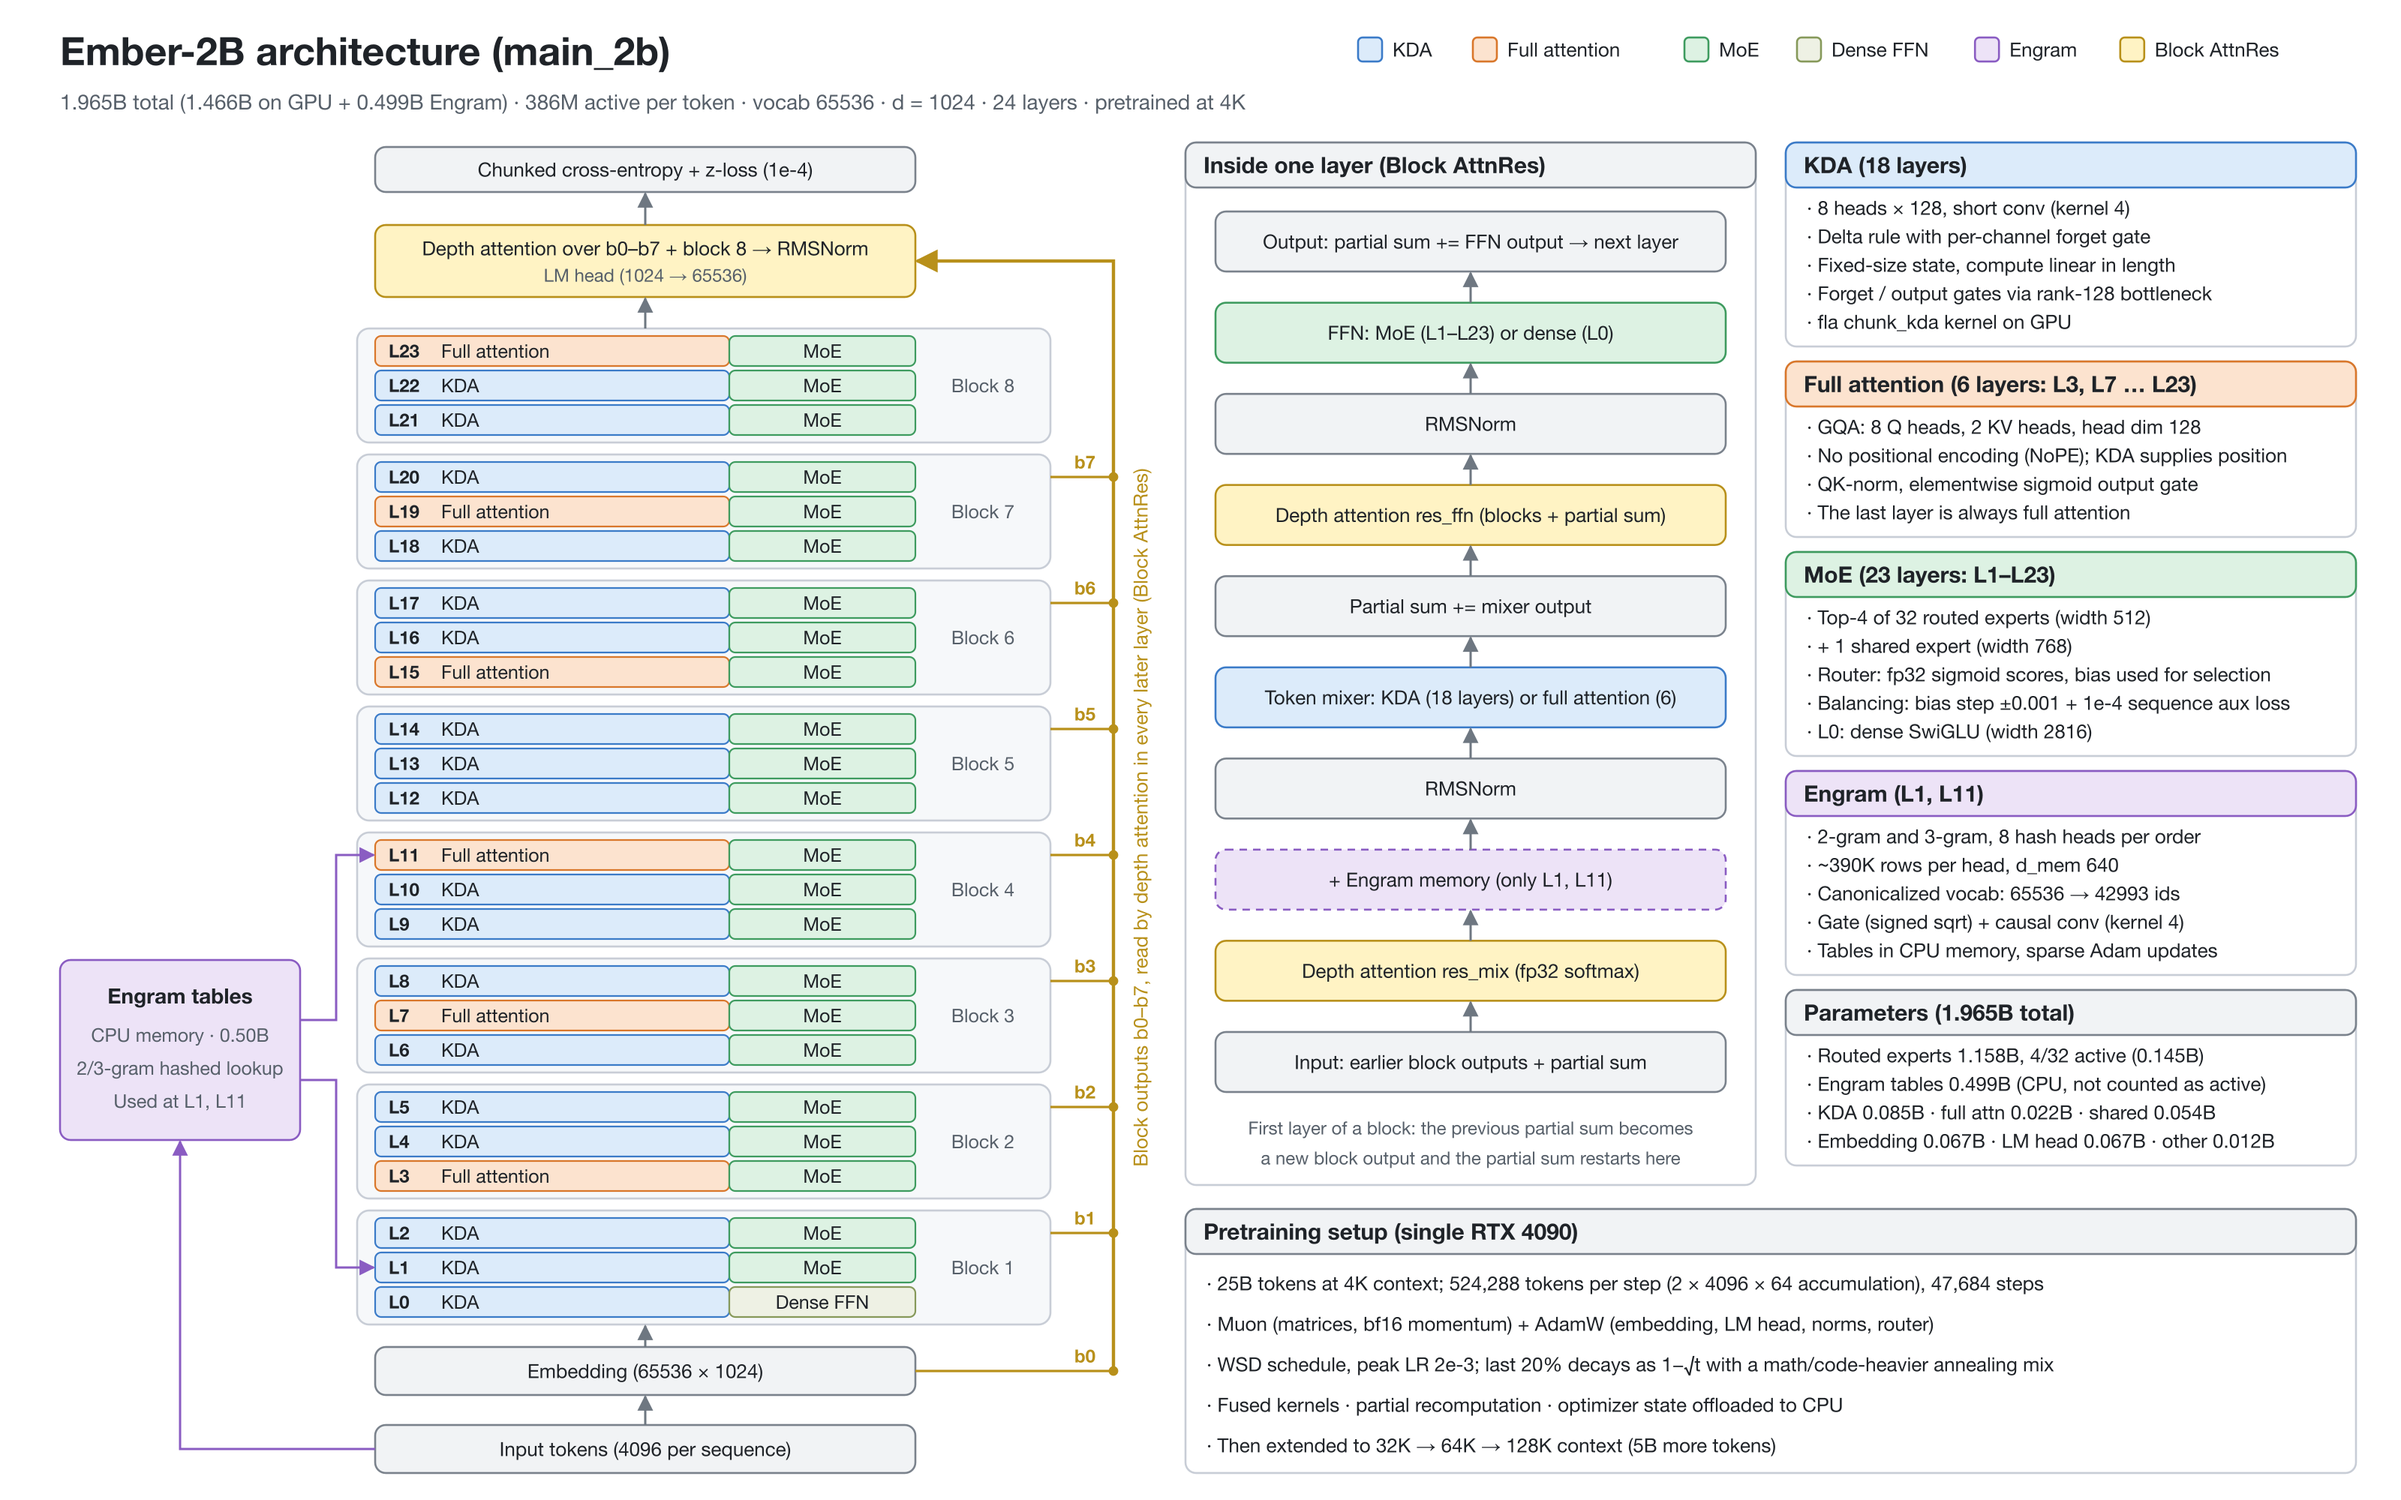
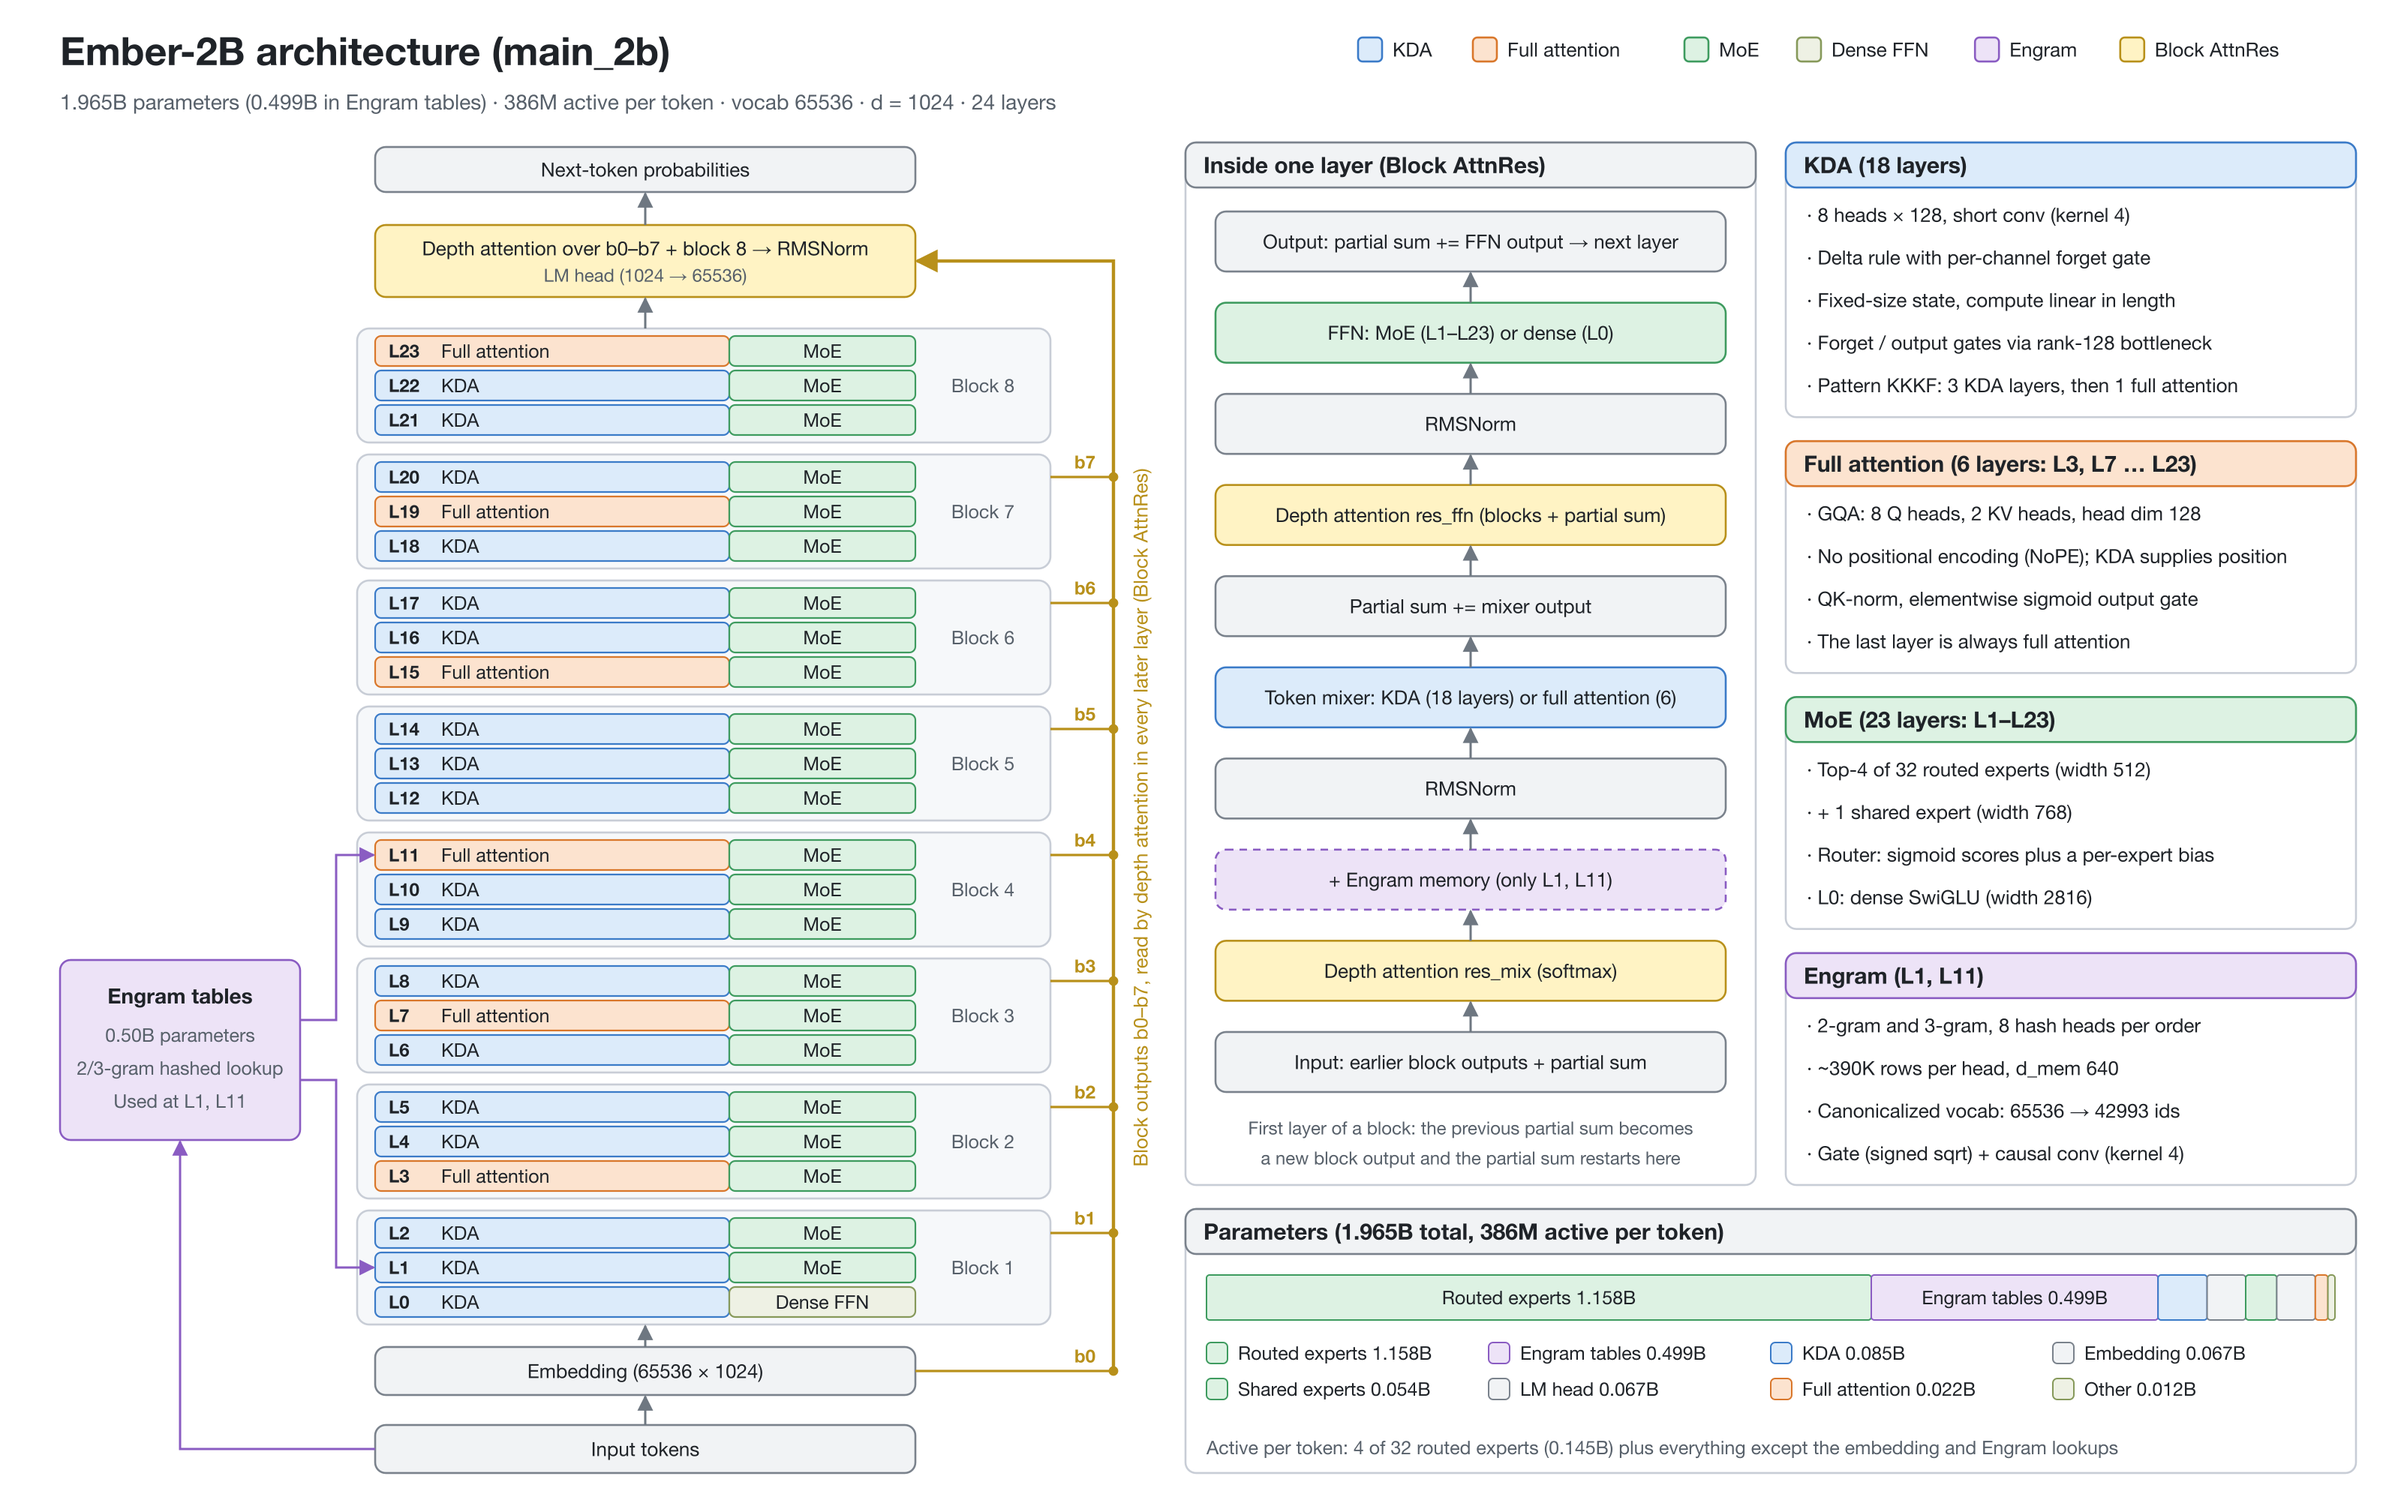
Architecture figure: the model only (no training setup, data or hardware)

diff --git a/scripts/plot_architecture.py b/scripts/plot_architecture.py
@@ -1,6 +1,9 @@
 #!/usr/bin/env python
 """Draw the main_2b architecture: docs/architecture.svg, plus docs/architecture.png via rsvg-convert.
 
+The figure shows the model only: the layer stack, what one layer does, the components and where the parameters
+are. Training settings, data and hardware are not part of it.
+
 Layer layout, widths and expert counts come from moe_llm/config.py (plain Python, no torch needed).
 Parameter counts come from moe_llm.budget.param_report when torch is installed, otherwise from the
 numbers it reported for main_2b on 2026-11-10 (FALLBACK_CATS).
@@ -45,12 +48,6 @@ def param_counts(cfg) -> dict:
         return dict(param_report(cfg)["cats"])
     except ImportError:
         return dict(FALLBACK_CATS)
-
-
-def sci(x: float) -> str:
-    """1e-4 instead of 0.0001."""
-    m, e = f"{x:.0e}".split("e")
-    return f"{m}e{int(e)}"
 
 
 def text_width(s: str, size: float) -> float:
@@ -139,8 +136,8 @@ def draw(cfg) -> Svg:
 
     # ---------------------------------------------------------------- title + legend
     s.text(40, 34, "Ember-2B architecture (main_2b)", 26, "bold", anchor="start")
-    s.text(40, 68, f"{total / 1e9:.3f}B total ({(total - engram) / 1e9:.3f}B on GPU + {engram / 1e9:.3f}B Engram) "
-           f"· {active / 1e6:.0f}M active per token · vocab {cfg.vocab_size} · d = {cfg.d_model} · {L} layers · pretrained at 4K",
+    s.text(40, 68, f"{total / 1e9:.3f}B parameters ({engram / 1e9:.3f}B in Engram tables) "
+           f"· {active / 1e6:.0f}M active per token · vocab {cfg.vocab_size} · d = {cfg.d_model} · {L} layers",
            14, anchor="start", color=MUTED, max_w=1000)
     lx = 905
     for key, label in (("kda", "KDA"), ("attn", "Full attention"), ("moe", "MoE"), ("dense", "Dense FFN"),
@@ -175,8 +172,8 @@ def draw(cfg) -> Svg:
         s.rect(cx0 + mix_w, y, cx1 - cx0 - mix_w, cell_h, fk, rx=4, sw=1.1)
         s.text(cx0 + mix_w + (cx1 - cx0 - mix_w) / 2, y + cell_h / 2, "MoE" if fk == "moe" else "Dense FFN", 12.5)
 
-    # input -> embedding -> stack -> final -> loss
-    s.boxed(cx0, 950, cx1 - cx0, 32, f"Input tokens ({cfg.max_seq_len} per sequence)", "io")
+    # input -> embedding -> stack -> final -> output
+    s.boxed(cx0, 950, cx1 - cx0, 32, "Input tokens", "io")
     s.boxed(cx0, 898, cx1 - cx0, 32, f"Embedding ({cfg.vocab_size} × {cfg.d_model})", "io")
     s.path([(cxc, 950), (cxc, 931)])
     s.path([(cxc, 898), (cxc, col_bottom + pad + 1)])
@@ -184,7 +181,7 @@ def draw(cfg) -> Svg:
     s.boxed(cx0, 150, cx1 - cx0, 48, f"Depth attention over b0–b{nblk - 1} + block {nblk} → RMSNorm", "attnres",
             sub=f"LM head ({cfg.d_model} → {cfg.vocab_size})")
     s.path([(cxc, top_stack), (cxc, 199)])
-    s.boxed(cx0, 98, cx1 - cx0, 30, f"Chunked cross-entropy + z-loss ({sci(cfg.z_loss)})", "io")
+    s.boxed(cx0, 98, cx1 - cx0, 30, "Next-token probabilities", "io")
     s.path([(cxc, 150), (cxc, 129)])
 
     # Engram: looked up from the token n-grams, added in layers engram_layers
@@ -192,7 +189,7 @@ def draw(cfg) -> Svg:
     ey0, ey1 = 640, 760
     s.rect(40, ey0, 160, ey1 - ey0, "engram")
     s.text(120, ey0 + 24, "Engram tables", 14, "bold")
-    s.text(120, ey0 + 50, "CPU memory · 0.50B", 12.5, color=MUTED)
+    s.text(120, ey0 + 50, f"{engram / 1e9:.2f}B parameters", 12.5, color=MUTED)
     s.text(120, ey0 + 72, f"{'/'.join(str(o) for o in cfg.engram_orders)}-gram hashed lookup", 12.5, color=MUTED)
     s.text(120, ey0 + 94, "Used at " + ", ".join(f"L{i}" for i in cfg.engram_layers), 12.5, color=MUTED)
     s.path([(cx0, 966), (120, 966), (120, ey1 + 1)], color=es, arrow="purple")
@@ -221,7 +218,7 @@ def draw(cfg) -> Svg:
     s.text(ax + 12, ay + 15, "Inside one layer (Block AttnRes)", 15, "bold", anchor="start")
     steps = [  # bottom to top
         ("Input: earlier block outputs + partial sum", "io", None),
-        ("Depth attention res_mix (fp32 softmax)", "attnres", None),
+        ("Depth attention res_mix (softmax)", "attnres", None),
         ("+ Engram memory (only " + ", ".join(f"L{i}" for i in cfg.engram_layers) + ")", "engram", "5,4"),
         ("RMSNorm", "io", None),
         (f"Token mixer: KDA ({L - len(full)} layers) or full attention ({len(full)})", "kda", None),
@@ -244,57 +241,69 @@ def draw(cfg) -> Svg:
 
     # ---------------------------------------------------------------- panels B-E: components
     px, pw = 1190, 380
-    y = panel(s, px, 95, pw, f"KDA ({L - len(full)} layers)", "kda", [
-        f"{cfg.kda_heads} heads × {cfg.kda_head_dim}, short conv (kernel {cfg.kda_conv_size})",
-        "Delta rule with per-channel forget gate",
-        "Fixed-size state, compute linear in length",
-        f"Forget / output gates via rank-{cfg.kda_lowrank} bottleneck",
-        "fla chunk_kda kernel on GPU",
-    ])
-    y = panel(s, px, y + 10, pw, f"Full attention ({len(full)} layers: L{full[0]}, L{full[1]} … L{full[-1]})", "attn", [
-        f"GQA: {cfg.attn_heads} Q heads, {cfg.attn_kv_heads} KV heads, head dim {cfg.attn_head_dim}",
-        "No positional encoding (NoPE); KDA supplies position",
-        "QK-norm, elementwise sigmoid output gate",
-        "The last layer is always full attention",
-    ])
-    y = panel(s, px, y + 10, pw, f"MoE ({len(moe)} layers: L{moe[0]}–L{moe[-1]})", "moe", [
-        f"Top-{cfg.top_k} of {cfg.n_experts} routed experts (width {cfg.expert_inter})",
-        f"+ {cfg.n_shared} shared expert (width {cfg.shared_inter})",
-        "Router: fp32 sigmoid scores, bias used for selection",
-        f"Balancing: bias step ±{cfg.router_bias_update:g} + {sci(cfg.seq_aux_coef)} sequence aux loss",
-        f"L0: dense SwiGLU (width {cfg.dense_inter})",
-    ])
     rows = cfg.engram_rows if isinstance(cfg.engram_rows, int) else max(cfg.engram_rows)
-    y = panel(s, px, y + 10, pw, "Engram (" + ", ".join(f"L{i}" for i in cfg.engram_layers) + ")", "engram", [
-        f"{' and '.join(f'{o}-gram' for o in cfg.engram_orders)}, {cfg.engram_heads} hash heads per order",
-        f"~{rows / 1e3:.0f}K rows per head, d_mem {cfg.engram_dim}",
-        "Canonicalized vocab: 65536 → 42993 ids",
-        f"Gate (signed sqrt) + causal conv (kernel {cfg.engram_conv_size})",
-        "Tables in CPU memory, sparse Adam updates",
-    ])
-    rest = c["dense_ffn"] + c["router"] + c["engram_dense"] + c["norm_attnres_other"]
-    y = panel(s, px, y + 10, pw, f"Parameters ({total / 1e9:.3f}B total)", "io", [
-        f"Routed experts {c['moe_routed'] / 1e9:.3f}B, {cfg.top_k}/{cfg.n_experts} active"
-        f" ({routed_active / 1e9:.3f}B)",
-        f"Engram tables {engram / 1e9:.3f}B (CPU, not counted as active)",
-        f"KDA {c['mixer_kda'] / 1e9:.3f}B · full attn {c['mixer_full'] / 1e9:.3f}B · shared {c['moe_shared'] / 1e9:.3f}B",
-        f"Embedding {c['embedding'] / 1e9:.3f}B · LM head {c['lm_head'] / 1e9:.3f}B · other {rest / 1e9:.3f}B",
-    ])
-    assert y <= ay + ah + 1, y
+    cards = [
+        (f"KDA ({L - len(full)} layers)", "kda", [
+            f"{cfg.kda_heads} heads × {cfg.kda_head_dim}, short conv (kernel {cfg.kda_conv_size})",
+            "Delta rule with per-channel forget gate",
+            "Fixed-size state, compute linear in length",
+            f"Forget / output gates via rank-{cfg.kda_lowrank} bottleneck",
+            f"Pattern {cfg.layer_pattern}: 3 KDA layers, then 1 full attention",
+        ]),
+        (f"Full attention ({len(full)} layers: L{full[0]}, L{full[1]} … L{full[-1]})", "attn", [
+            f"GQA: {cfg.attn_heads} Q heads, {cfg.attn_kv_heads} KV heads, head dim {cfg.attn_head_dim}",
+            "No positional encoding (NoPE); KDA supplies position",
+            "QK-norm, elementwise sigmoid output gate",
+            "The last layer is always full attention",
+        ]),
+        (f"MoE ({len(moe)} layers: L{moe[0]}–L{moe[-1]})", "moe", [
+            f"Top-{cfg.top_k} of {cfg.n_experts} routed experts (width {cfg.expert_inter})",
+            f"+ {cfg.n_shared} shared expert (width {cfg.shared_inter})",
+            "Router: sigmoid scores plus a per-expert bias",
+            f"L0: dense SwiGLU (width {cfg.dense_inter})",
+        ]),
+        ("Engram (" + ", ".join(f"L{i}" for i in cfg.engram_layers) + ")", "engram", [
+            f"{' and '.join(f'{o}-gram' for o in cfg.engram_orders)}, {cfg.engram_heads} hash heads per order",
+            f"~{rows / 1e3:.0f}K rows per head, d_mem {cfg.engram_dim}",
+            "Canonicalized vocab: 65536 → 42993 ids",
+            f"Gate (signed sqrt) + causal conv (kernel {cfg.engram_conv_size})",
+        ]),
+    ]
+    gap = 16
+    lh = (ah - 41 * len(cards) - gap * (len(cards) - 1)) / sum(len(lines) for _, _, lines in cards)
+    y = ay - gap
+    for title, key, lines in cards:
+        y = panel(s, px, y + gap, pw, title, key, lines, lh=lh)
+    assert abs(y - (ay + ah)) < 1, y
 
-    # ---------------------------------------------------------------- training settings
+    # ---------------------------------------------------------------- parameters: where they are
     tx, ty, tw_, th = 790, 806, 780, 176
     s.rect(tx, ty, tw_, th, "panel")
     s.rect(tx, ty, tw_, 30, "io", rx=7)
-    s.text(tx + 12, ty + 15, "Pretraining setup (single RTX 4090)", 15, "bold", anchor="start")
-    for k, ln in enumerate([
-        "25B tokens at 4K context; 524,288 tokens per step (2 × 4096 × 64 accumulation), 47,684 steps",
-        "Muon (matrices, bf16 momentum) + AdamW (embedding, LM head, norms, router)",
-        "WSD schedule, peak LR 2e-3; last 20% decays as 1−√t with a math/code-heavier annealing mix",
-        "Fused kernels · partial recomputation · optimizer state offloaded to CPU",
-        "Then extended to 32K → 64K → 128K context (5B more tokens)",
-    ]):
-        s.text(tx + 14, ty + 34 + 27 * (k + 0.5) + 2, "· " + ln, 13, anchor="start", max_w=tw_ - 26)
+    s.text(tx + 12, ty + 15, f"Parameters ({total / 1e9:.3f}B total, {active / 1e6:.0f}M active per token)", 15, "bold",
+           anchor="start")
+    rest = c["dense_ffn"] + c["router"] + c["engram_dense"] + c["norm_attnres_other"]
+    parts = [("Routed experts", c["moe_routed"], "moe"), ("Engram tables", engram, "engram"), ("KDA", c["mixer_kda"], "kda"),
+             ("Embedding", c["embedding"], "io"), ("Shared experts", c["moe_shared"], "moe"), ("LM head", c["lm_head"], "io"),
+             ("Full attention", c["mixer_full"], "attn"), ("Other", rest, "dense")]
+    assert sum(n for _, n, _ in parts) == total
+    bx0, bw_, by, bh_ = tx + 14, tw_ - 28, ty + 44, 30
+    x = bx0
+    for label, n, key in parts:  # one bar, a segment per component, widths by parameter count
+        w = bw_ * n / total
+        s.rect(x, by, w, bh_, key, rx=2, sw=1.0)
+        full_label = f"{label} {n / 1e9:.3f}B"
+        if text_width(full_label, 12.5) < w - 10:
+            s.text(x + w / 2, by + bh_ / 2, full_label, 12.5)
+        x += w
+    per_row, cw = 4, bw_ / 4
+    for k, (label, n, key) in enumerate(parts):  # the same components with their counts, readable for the thin segments
+        cx, cy = bx0 + (k % per_row) * cw, by + bh_ + 22 + (k // per_row) * 24
+        s.rect(cx, cy - 7, 14, 14, key, rx=3, sw=1.0)
+        s.text(cx + 21, cy, f"{label} {n / 1e9:.3f}B", 12.5, anchor="start", max_w=cw - 26)
+    s.text(tx + 14, ty + th - 17, f"Active per token: {cfg.top_k} of {cfg.n_experts} routed experts ({routed_active / 1e9:.3f}B) plus "
+           "everything except the embedding and Engram lookups", 12.5, anchor="start",
+           color=MUTED, max_w=tw_ - 26)
     return s
 
 
